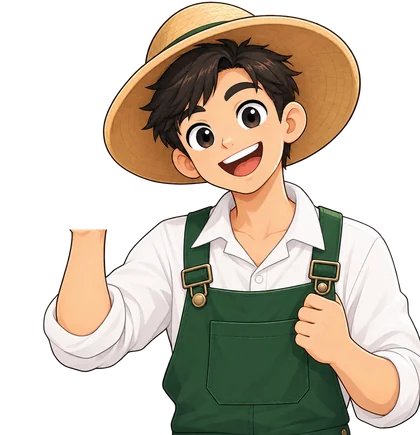
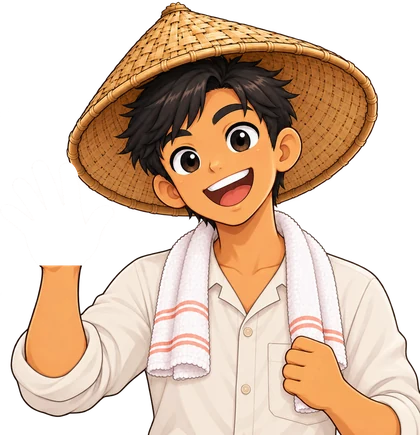
Walkthrough and Guide: the new waving farmer, his hand turning at the wrist

diff --git a/src/styles/tourStyles.ts b/src/styles/tourStyles.ts
@@ -101,7 +101,7 @@ export const tourCss = `
     100% { opacity: 0; }
   }
   /* The pivot is the wrist crease, measured on the drawing. */
-  .tm-hand { transform-origin: 21.13% 53.48%; }
+  .tm-hand { transform-origin: 14.47% 61.55%; }
   .tour[data-open] .tm-hand { animation: tm-wave 1.7s var(--ease-io) 560ms both; }
   @keyframes tm-wave {
     0%   { transform: rotate(0deg); }

diff --git a/design/artwork/README.md b/design/artwork/README.md
@@ -14,7 +14,7 @@ a second of loading for a picture that renders 380 pixels wide.
 | `Peeking.png` | `src/assets/juan-peek.webp`, split into `juan-peek-body.webp` + `juan-peek-hand.webp` (+ `juan-peek-mouth-half.webp`, `juan-peek-mouth-shut.webp`: drawn half-open mouth and closed smile) | Signup screens (language, role); the hand layer waves from the wrist, and the mouth layers switch in turn so he says each line, then stops |
 | `FarmerCarryingBasket.png` (already transparent; cropped to the figure's width, 420 × 474) | `src/assets/mascot-basket.webp` (+ `-blink`, `-mouth-half`, `-mouth-shut`: closed lids, a half-open mouth and a closed smile, drawn on the same canvas by a script that fills the eyes and mouth with the face's own skin tones) | The market card at the top of Prices; blinks and talks on a loop |
 | `buyersmascot.png` | `src/assets/buyer-mascot.webp` (+ `buyer-mascot-eyes.webp`, `buyer-mascot-mouth.webp`: drawn closed lids and closed smile) | The role screen when creating an account: he blinks and talks |
-| `mascothi-clean.png` (extra hat lobe removed; the uncleaned original is no longer kept) | `src/assets/mascot-wave-body.webp` + `-hand` + `-eyes` + `-mouth` | Opening card of the walkthrough: the hand rotates from the wrist; `-eyes` (closed lids) and `-mouth` (closed smile) are drawn overlays that switch on to blink and talk |
+| `FarmerHi.png` (already transparent; cropped to the figure's width from the top of the hat, 420 × 435) | `src/assets/mascot-wave-body.webp` (the hand cut away above the wrist) + `-hand` (the hand alone; it rotates from the wrist crease, `transform-origin: 14.47% 61.55%` on `.tm-hand`) + `-eyes` (closed lids) + `-mouth` (closed smile), all drawn on the same canvas by a script | Opening card of the walkthrough, and the Guide: the hand waves, the eyes blink, the smile closes to say hello |
 | `FarmerThumbsUp.png` (already transparent; cropped to the figure's width, 420 × 443) | `src/assets/mascot-thumbs.webp` + `mascot-thumbs-eyes.webp` (closed lids, drawn on the same canvas by a script that fills the eyes with the face's own skin tones) | Last card of the walkthrough, and the achievement pop-up; `-eyes` switches on to blink |
 
 ## Adding or replacing one
